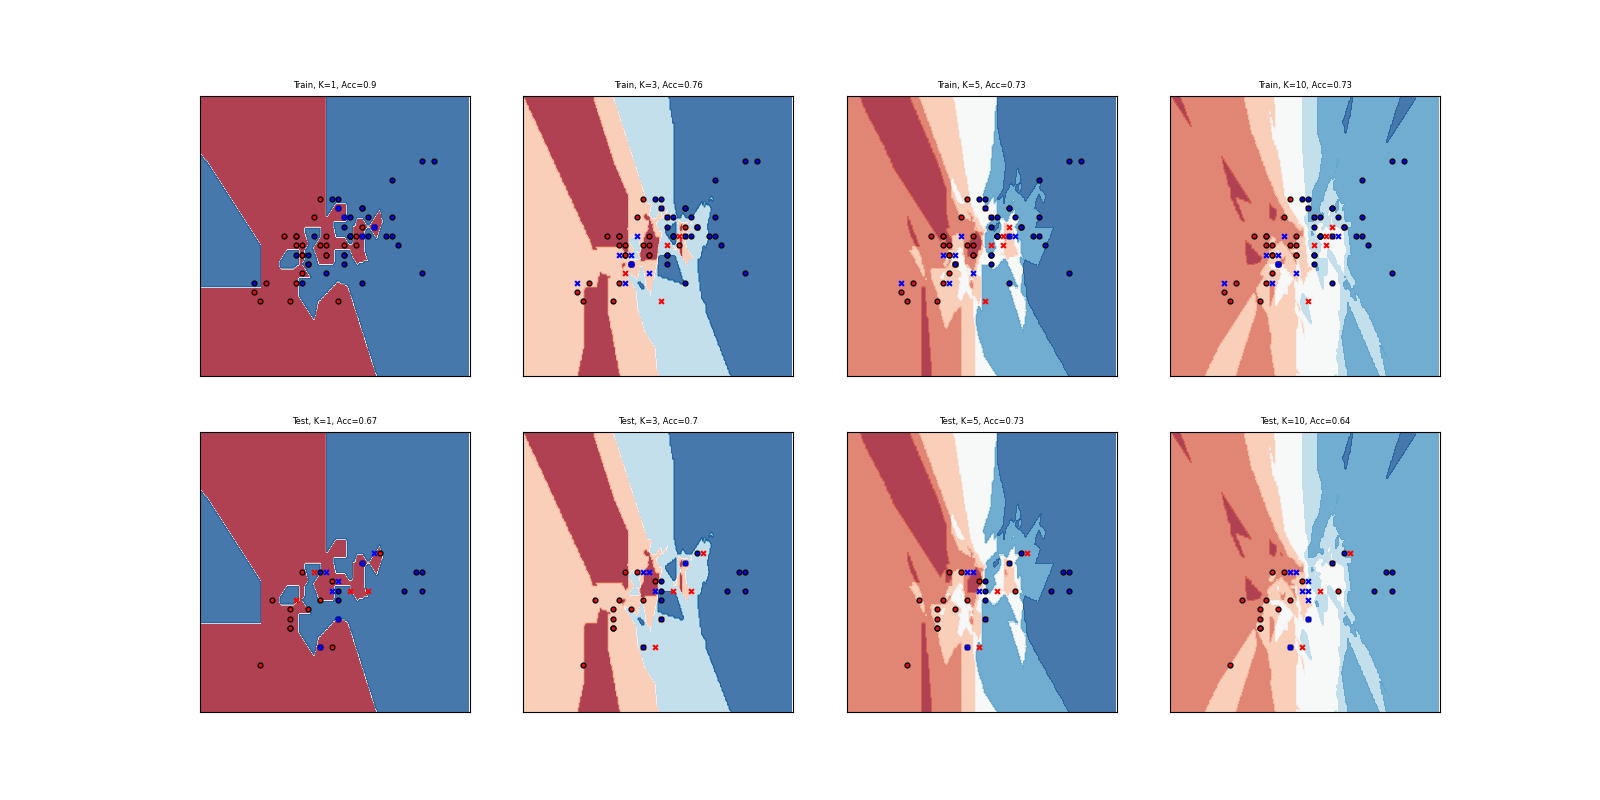
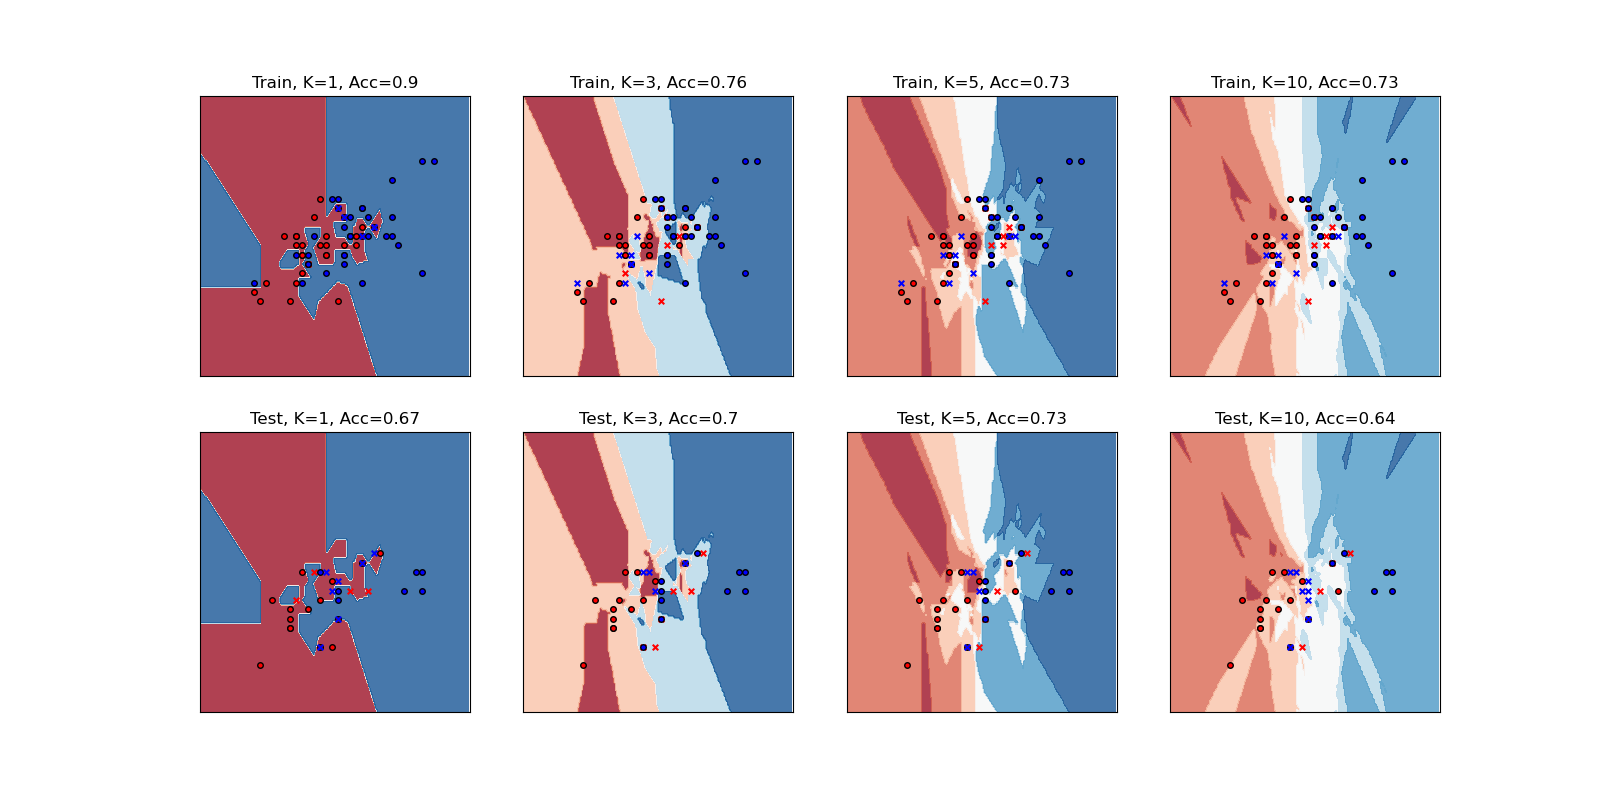
update train/test plots

diff --git a/workshop_2/workshop_2.py b/workshop_2/workshop_2.py
@@ -239,30 +239,30 @@ for i in k_seq:
     false_vers_train = np.logical_and((neigh.predict(X_train) != y_train), [x == "Versicolor" for x in y_train])
     true_virg_train = np.logical_and((neigh.predict(X_train) == y_train), [x == "Virginica" for x in y_train])
     false_virg_train = np.logical_and((neigh.predict(X_train) != y_train), [x == "Virginica" for x in y_train])
-    axes[0,j].set_title("Train, K=" + str(i) + ", " + "Acc=" + str(round(score_train,2)), fontsize=6)
+    axes[0,j].set_title("Train, K=" + str(i) + ", " + "Acc=" + str(round(score_train,2)), fontsize=12)
     axes[0,j].contourf(xx, yy, Z, cmap=cm, alpha=.8)
     axes[0,j].scatter(X_train[X_test.columns[0]][true_vers_train], X_train[X_test.columns[1]][true_vers_train],
-               marker = 'o', c="red", cmap=cm_bright, edgecolors='k', s=12)
+               marker = 'o', c="red", cmap=cm_bright, edgecolors='k', s=16)
     axes[0,j].scatter(X_train[X_test.columns[0]][false_vers_train], X_train[X_test.columns[1]][false_vers_train],
-                      marker = 'x', c="red", cmap=cm_bright, edgecolors='k', s=12)
+                      marker = 'x', c="red", cmap=cm_bright, edgecolors='k', s=16)
     axes[0,j].scatter(X_train[X_test.columns[0]][true_virg_train], X_train[X_test.columns[1]][true_virg_train],
-               marker = 'o', c="blue", cmap=cm_bright, edgecolors='k', s=12)
+               marker = 'o', c="blue", cmap=cm_bright, edgecolors='k', s=16)
     axes[0,j].scatter(X_train[X_test.columns[0]][false_virg_train], X_train[X_test.columns[1]][false_virg_train],
-                      marker = 'x', c="blue", cmap=cm_bright, edgecolors='k', s=12)
+                      marker = 'x', c="blue", cmap=cm_bright, edgecolors='k', s=16)
     axes[0,j].set_xlim(4, 8.5)
     axes[0,j].set_ylim(1.5, 4.5)
     axes[0,j].set_xticks(())
     axes[0,j].set_yticks(())
-    axes[1,j].set_title("Test, K=" + str(i) + ", " + "Acc=" + str(round(score_test,2)), fontsize=6)
+    axes[1,j].set_title("Test, K=" + str(i) + ", " + "Acc=" + str(round(score_test,2)), fontsize=12)
     axes[1,j].contourf(xx, yy, Z, cmap=cm, alpha=.8)
     axes[1,j].scatter(X_test[X_test.columns[0]][true_vers_test], X_test[X_test.columns[1]][true_vers_test],
-               marker = 'o', c="red", cmap=cm_bright, edgecolors='k',s = 12)
+               marker = 'o', c="red", cmap=cm_bright, edgecolors='k',s = 16)
     axes[1,j].scatter(X_test[X_test.columns[0]][false_vers_test], X_test[X_test.columns[1]][false_vers_test],
-                      marker = 'x', c="red", cmap=cm_bright, edgecolors='k',s = 12)
+                      marker = 'x', c="red", cmap=cm_bright, edgecolors='k',s = 16)
     axes[1,j].scatter(X_test[X_test.columns[0]][true_virg_test], X_test[X_test.columns[1]][true_virg_test],
-               marker = 'o', c="blue", cmap=cm_bright, edgecolors='k',s = 12)
+               marker = 'o', c="blue", cmap=cm_bright, edgecolors='k',s = 16)
     axes[1,j].scatter(X_test[X_test.columns[0]][false_virg_test], X_test[X_test.columns[1]][false_virg_test],
-               marker = 'x', c="blue", cmap=cm_bright, edgecolors='k',s = 12)
+               marker = 'x', c="blue", cmap=cm_bright, edgecolors='k',s = 16)
     axes[1,j].set_xlim(4, 8.5)
     axes[1,j].set_ylim(1.5, 4.5)
     axes[1,j].set_xticks(())
@@ -307,10 +307,10 @@ neigh.fit(X, y)
 score = neigh.score(X, y)
 score
 
-true_vers_test = np.logical_and((neigh.predict(X) == y), [x == "Versicolor" for x in y])
-false_vers_test = np.logical_and((neigh.predict(X) != y), [x == "Versicolor" for x in y])
-true_virg_test = np.logical_and((neigh.predict(X) == y), [x == "Virginica" for x in y])
-false_virg_test = np.logical_and((neigh.predict(X) != y), [x == "Virginica" for x in y])
+true_vers = np.logical_and((neigh.predict(X) == y), [x == "Versicolor" for x in y])
+false_vers = np.logical_and((neigh.predict(X) != y), [x == "Versicolor" for x in y])
+true_virg = np.logical_and((neigh.predict(X) == y), [x == "Virginica" for x in y])
+false_virg = np.logical_and((neigh.predict(X) != y), [x == "Virginica" for x in y])
 
 
 Z = neigh.predict_proba(np.c_[xx.ravel(), yy.ravel()])[:, 1]
@@ -321,8 +321,15 @@ ax = plt.subplot(1, 1, 1)
 ax.set_title("K=" + str(best_k) + ", " + "Accuracy = " + str(score))
 # Plot the training points
 ax.contourf(xx, yy, Z, cmap=cm, alpha=.8)
-ax.scatter(X["sepal.length"], X["sepal.width"],
-           c=y.astype("category").cat.codes, cmap=cm_bright, edgecolors='k')
+ax.scatter(X["sepal.length"][true_vers], X["sepal.width"][true_vers],
+               marker = 'o', c="red", cmap=cm_bright, edgecolors='k', s=12)
+ax.scatter(X["sepal.length"][false_vers], X["sepal.width"][false_vers],
+           marker = 'x', c="red", cmap=cm_bright, edgecolors='k', s=12)
+ax.scatter(X["sepal.length"][true_virg], X["sepal.width"][true_virg],
+           marker = 'o', c="blue", cmap=cm_bright, edgecolors='k', s=12)
+ax.scatter(X["sepal.length"][false_virg], X["sepal.width"][false_virg],
+           marker = 'x', c="blue", cmap=cm_bright, edgecolors='k', s=12)
+
 ax.set_xlim(xx.min(), xx.max())
 ax.set_ylim(yy.min(), yy.max())
 ax.set_xticks(())
